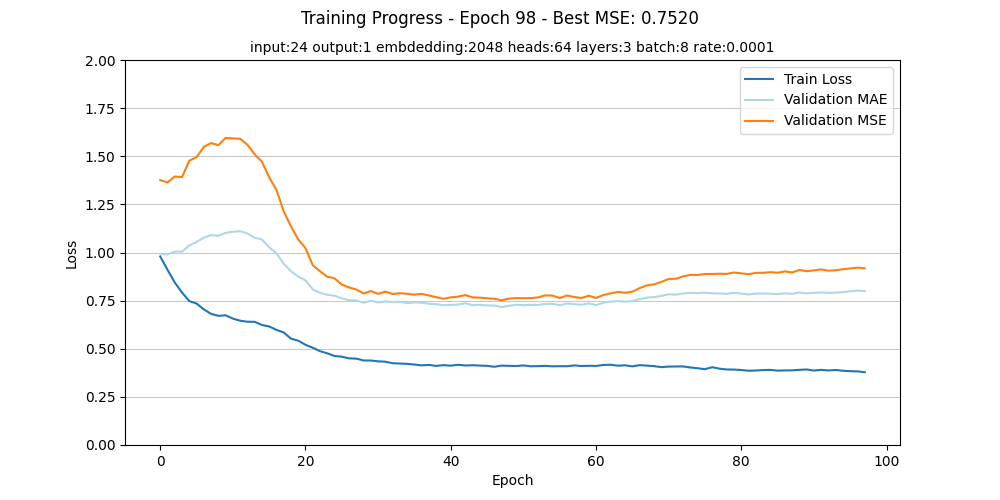
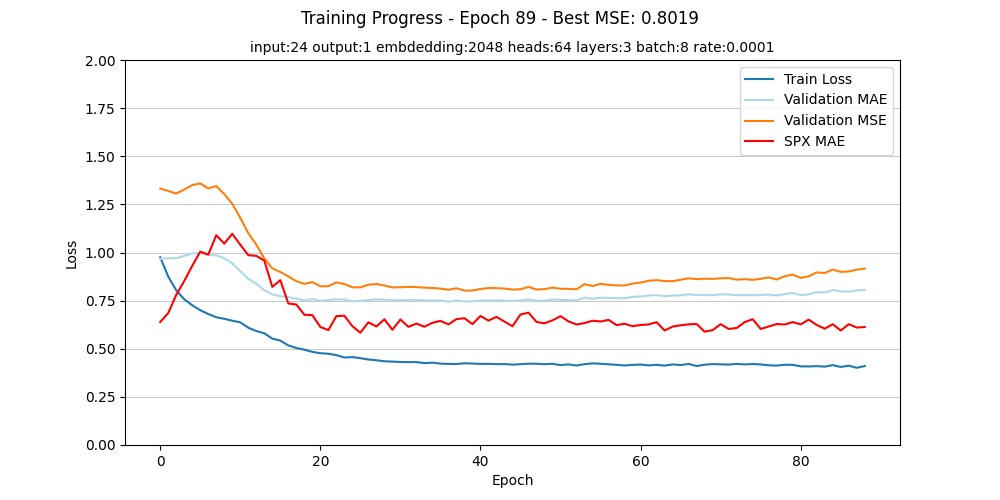
your

diff --git a/_INFORMER/_MAIN.py b/_INFORMER/_MAIN.py
@@ -39,17 +39,17 @@ else:
 
 # ------------------------------- PARAMETERS -----------------------------------------------------------
 # Model parameters
-INPUT_MONTHS = 36
+INPUT_MONTHS = 24
 OUTPUT_MONTHS = 1
-EMBEDDING_SIZE = 2048 # size of the embeddings
-ATTENTION_HEADS = 64 # number of attention heads (2048 / 32 = 64, -> 64-dimensional subspace ; which is a reasonable number)
 LAYER_COUNT = 3 # number of layers
+EMBEDDING_SIZE = 2048 # ()>4096< is too big) size of the embeddings
+ATTENTION_HEADS = 256 # OK number of attention heads (2048 / 32 = 64, -> 64-dimensional subspace ; which is a reasonable number)
 #
 # Training parameters
-BATCH_SIZE = 8 # the model processes BATCH_SIZE different sequences of INPUT_MONTHS months each at a time.
+BATCH_SIZE = 4 # the model processes BATCH_SIZE different sequences of INPUT_MONTHS months each at a time.
 LEARNING_RATE = 0.0001
-PATIENCE = 50 # how many epochs the validation loss should not improve before the training stops
-DROPOUT_RATE = 0.2 # TRY 0.3
+PATIENCE = 100 # how many epochs the validation loss should not improve before the training stops
+DROPOUT_RATE = 0.3 # TRY 0.3
 DEFAULTS_EPOCHS = 1000
 DEFAULTS_PERCENTAGE_DATA_USED_FOR_TRAINING = .8
 #
@@ -61,8 +61,8 @@ QUESTIONS = False if 'questions' in parameters and parameters['questions'] else 
 EPOCHS = int(parameters.get('epochs') or parameters.get('epoch') or DEFAULTS_EPOCHS)
 PERCENTAGE_DATA_USED_FOR_TRAINING = float(parameters.get('percentage_training') or DEFAULTS_PERCENTAGE_DATA_USED_FOR_TRAINING)
 # --------------------------------------------------------------------------------------------------------
-model_filename = f"best_model_inp{INPUT_MONTHS}_out{OUTPUT_MONTHS}_emb{EMBEDDING_SIZE}_heads{ATTENTION_HEADS}_layers{LAYER_COUNT}_batch{BATCH_SIZE}_rate{LEARNING_RATE}.pth"
-progress_filename = f"2019data_inp{INPUT_MONTHS}_out{OUTPUT_MONTHS}_emb{EMBEDDING_SIZE}_heads{ATTENTION_HEADS}_layers{LAYER_COUNT}_batch{BATCH_SIZE}_rate{LEARNING_RATE}.png"
+model_filename = f"best_model_inp{INPUT_MONTHS}_out{OUTPUT_MONTHS}_emb{EMBEDDING_SIZE}_heads{ATTENTION_HEADS}_layers{LAYER_COUNT}_batch{BATCH_SIZE}_rate{LEARNING_RATE}_dropout{DROPOUT_RATE}.pth"
+progress_filename = f"2019data_inp{INPUT_MONTHS}_out{OUTPUT_MONTHS}_emb{EMBEDDING_SIZE}_heads{ATTENTION_HEADS}_layers{LAYER_COUNT}_batch{BATCH_SIZE}_rate{LEARNING_RATE}_dropout{DROPOUT_RATE}.png"
 # --------------------------------------------------------------------------------------------------------
 
 # Prepare the dataset or get it from file
@@ -167,7 +167,7 @@ for epoch in range(EPOCHS):
         output = model(X_batch)
         loss = criterion(output, y_batch)
         loss.backward()
-        torch.nn.utils.clip_grad_norm_(model.parameters(), max_norm=1.0)  # Gradient Clipping
+        torch.nn.utils.clip_grad_norm_(model.parameters(), max_norm=0.5)  # Gradient Clipping (was 1.0 )
         optimizer.step()
         scheduler.step()
         epoch_loss += loss.item()
@@ -219,14 +219,14 @@ for epoch in range(EPOCHS):
     plt.plot(val_maes, label='Validation MAE', color='lightblue')
     plt.plot(val_mses, label='Validation MSE')
     # plt.plot(val_rmses, label='Validation RMSE')
-    plt.plot(val_focus_maes, label=f'Focus Column {FOCUS_COLUMN} MAE', color='red', linewidth=1.5)
+    plt.plot(val_focus_maes, label=f'SPX MAE', color='red', linewidth=1.5)
     plt.ylim(0, 2)
     plt.grid(True, which='both', axis='y', linestyle='-', linewidth=0.5)
     plt.xlabel('Epoch')
     plt.ylabel('Loss')
     plt.legend()
     plt.suptitle(f'Training Progress - Epoch {epoch+1} - Best MSE: {best_val_loss:.4f}')
-    plt.title(f'input:{INPUT_MONTHS} output:{OUTPUT_MONTHS} embdedding:{EMBEDDING_SIZE} heads:{ATTENTION_HEADS} layers:{LAYER_COUNT} batch:{BATCH_SIZE} rate:{LEARNING_RATE}', fontsize=10)
+    plt.title(f'input:{INPUT_MONTHS} output:{OUTPUT_MONTHS} embdedding:{EMBEDDING_SIZE} heads:{ATTENTION_HEADS} layers:{LAYER_COUNT} batch:{BATCH_SIZE} rate:{LEARNING_RATE} dropout:{DROPOUT_RATE}', fontsize=10)
     plt.savefig(progress_filename)
     plt.close()
     

diff --git a/TEST.py b/TEST.py
@@ -95,6 +95,9 @@
 # print(f'The optimal number of clusters is: {optimal_clusters}')
 
 
+import numpy as np
 
-print(1724146722/10000000000)
-print(1724146722/1E9)
+# tensor = np.arange(4**5).reshape(4, 4, 4, 4, 4)
+
+print(np.arange(4**5).reshape(4, 4, 4, 4, 4))
+print(np.arange(4**5).reshape(4, 4, 4, 4, 4).shape)
